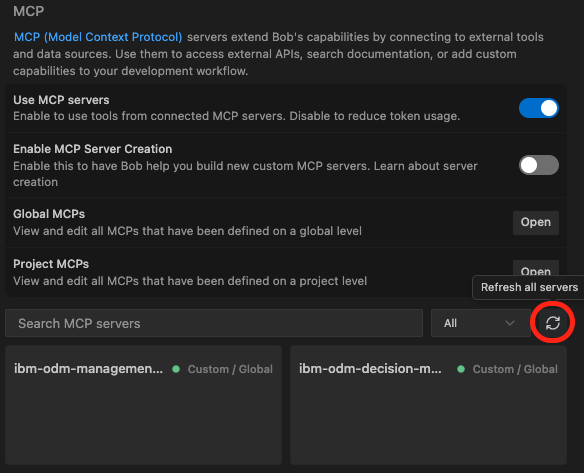
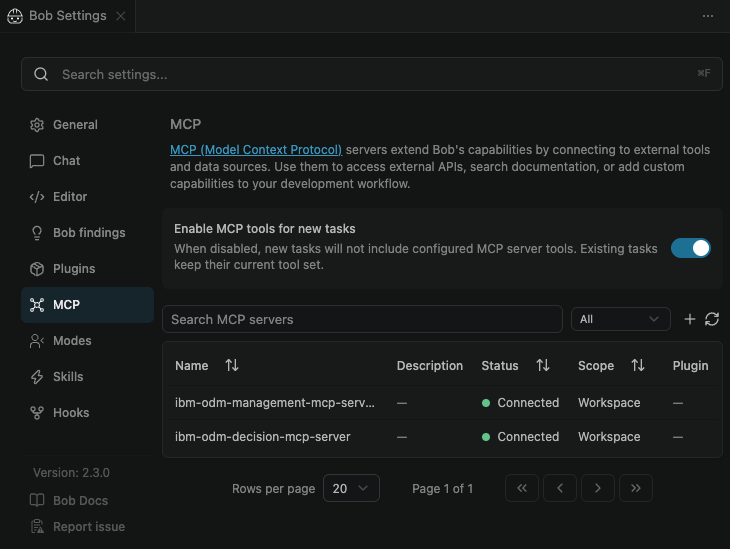
update instructions to configure IBM bob

diff --git a/docs/IBM-Bob-integration-guide.md b/docs/IBM-Bob-integration-guide.md
@@ -114,22 +114,22 @@ This step is optional and only needed if you choose to run ODM as a container on
   - **Username:** `odmAdmin`
   - **Password:** `odmAdmin`
 
-## Configure IBM Bob
+## Configuring MCP servers in IBM Bob
 
-1. To access the MCP settings panel, click the 3 dots next to the gear icon in the upper right corner of the chat window. Then, select MCP servers from the dropdown menu.
+You can manage MCP server configurations at two levels:
 
-    ![IBM Bob Screenshot](images/bob-ide-start.png)
+1. Global configuration: Settings in location below apply to all workspaces:
+    - macOS: `~/.bob/settings/mcp.json`
+    - Windows: `%APPDATA%\IBM Bob\User\globalStorage\ibm.bob-code\settings\mcp.json`
+1. Project-level configuration: Settings in `.bob/mcp.json` apply only to the current project
 
-1. Ensure that `Use MCP servers` is enabled and Click the `Open` button next to `Global MCPs` or `Project MCPs` to edit the MCP configuration:
-    - the configuration can be set at two levels: global (applied across all workspaces) or project-specific (stored in `.bob/mcp.json` within your project root, making it easy to share with teams through version control).
+When a server name exists in both global and project configurations, the project-level configuration takes precedence.
 
-    ![IBM Bob Screenshot](images/bob-mcp-servers.png)
+### Editing MCP settings file
 
-1. This opens the configuration file chosen. If you chose to edit the global settings:
-   - macOS: `~/.bob/settings/mcp_settings.json`
-   - Windows: `%APPDATA%\IBM Bob\User\globalStorage\ibm.bob-code\settings\mcp_settings.json`
+Use Bob IDE, or another text editor, to modify your MCP settings file.
 
-1. Edit the configuration file and add the following configuration:
+Add the following configuration:
    ```json
    {
      "mcpServers": {
@@ -150,9 +150,19 @@ This step is optional and only needed if you choose to run ODM as a container on
    }
    ```
 
-1. Save the file and then click the `Refresh all servers` icon. After some time, the `ibm-odm-management-mcp-server` MCP server will get displayed.
+1. Save the file, and open IBM Bob settings.
 
-    ![IBM Bob Screenshot](images/bob-refresh.png)
+    ![IBM Bob Screenshot](images/bob-ide-start.png)
+
+1. Select MCP, the `ibm-odm-management-mcp-server` MCP server should be displayed.
+
+    ![IBM Bob Screenshot](images/bob-mcp.png)
+
+1. Make sure that **Enable MCP tools for new tasks** is enabled, to let IBM Bob use tools.
+
+1. Click `ibm-odm-management-mcp-server` and you will see the tools available:
+
+    ![IBM Bob Screenshot](images/bob-tools.png)
 
 ## Demo walkthrough
 
@@ -292,7 +302,7 @@ With the configuration above, the Management MCP Server :
     
     - **Bob**: runs the `addRulesetProperty` to set the property `agent.enabled` to `true` on this ruleset
 
-1. In the MCP settings, click the 'Refresh all servers' icon so that the new tool gets published in the `ibm-odm-decision-mcp-server` MCP server. 
+1. In the MCP settings, the `ibm-odm-decision-mcp-server` MCP server should be displayed. 
 
     ![IBM Bob Screenshot](images/bob-demo-refresh.png)
 
